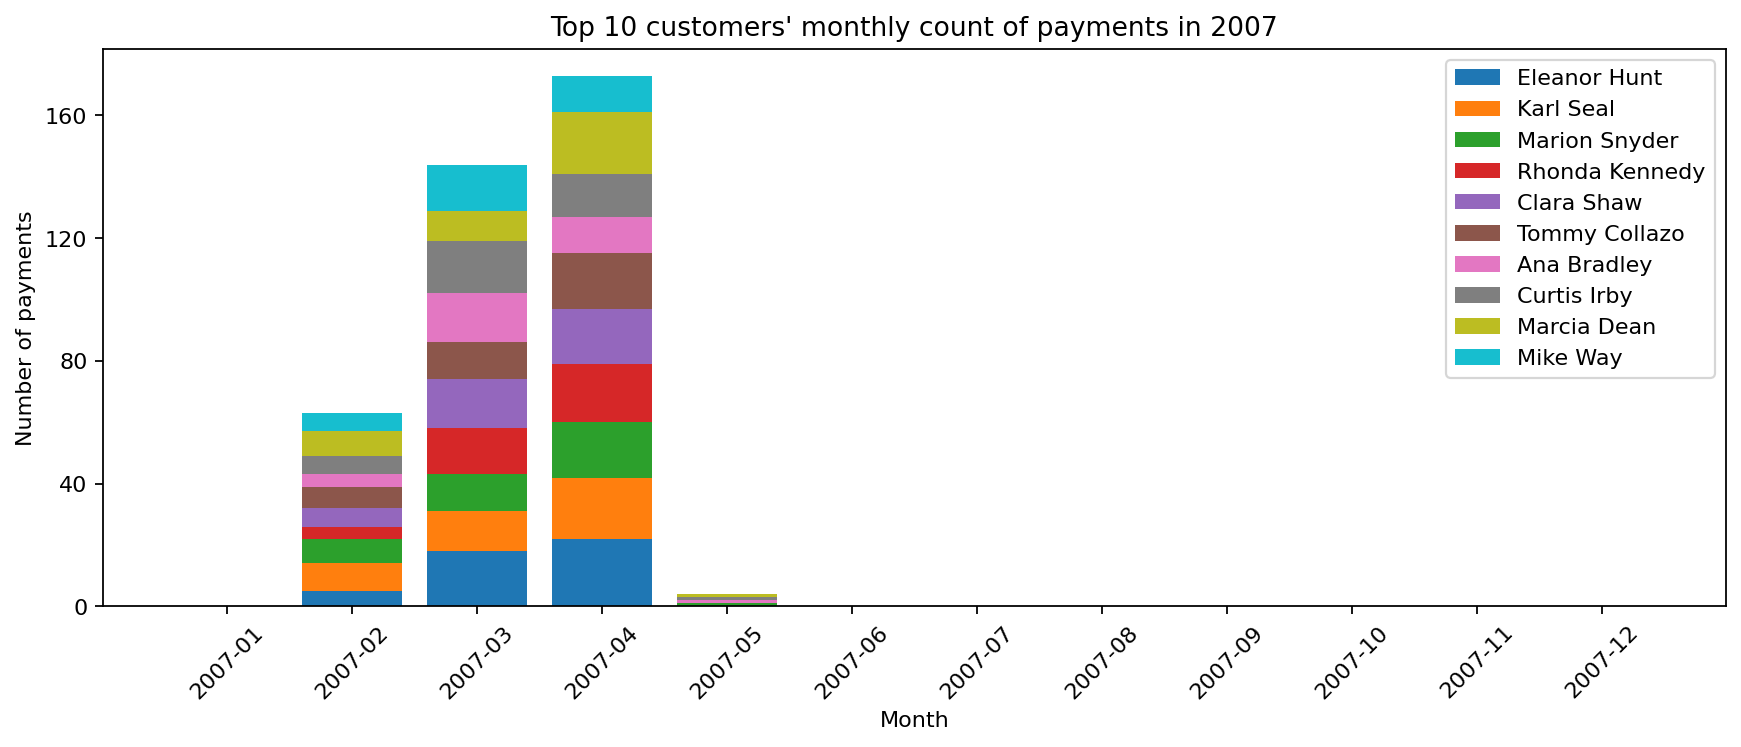
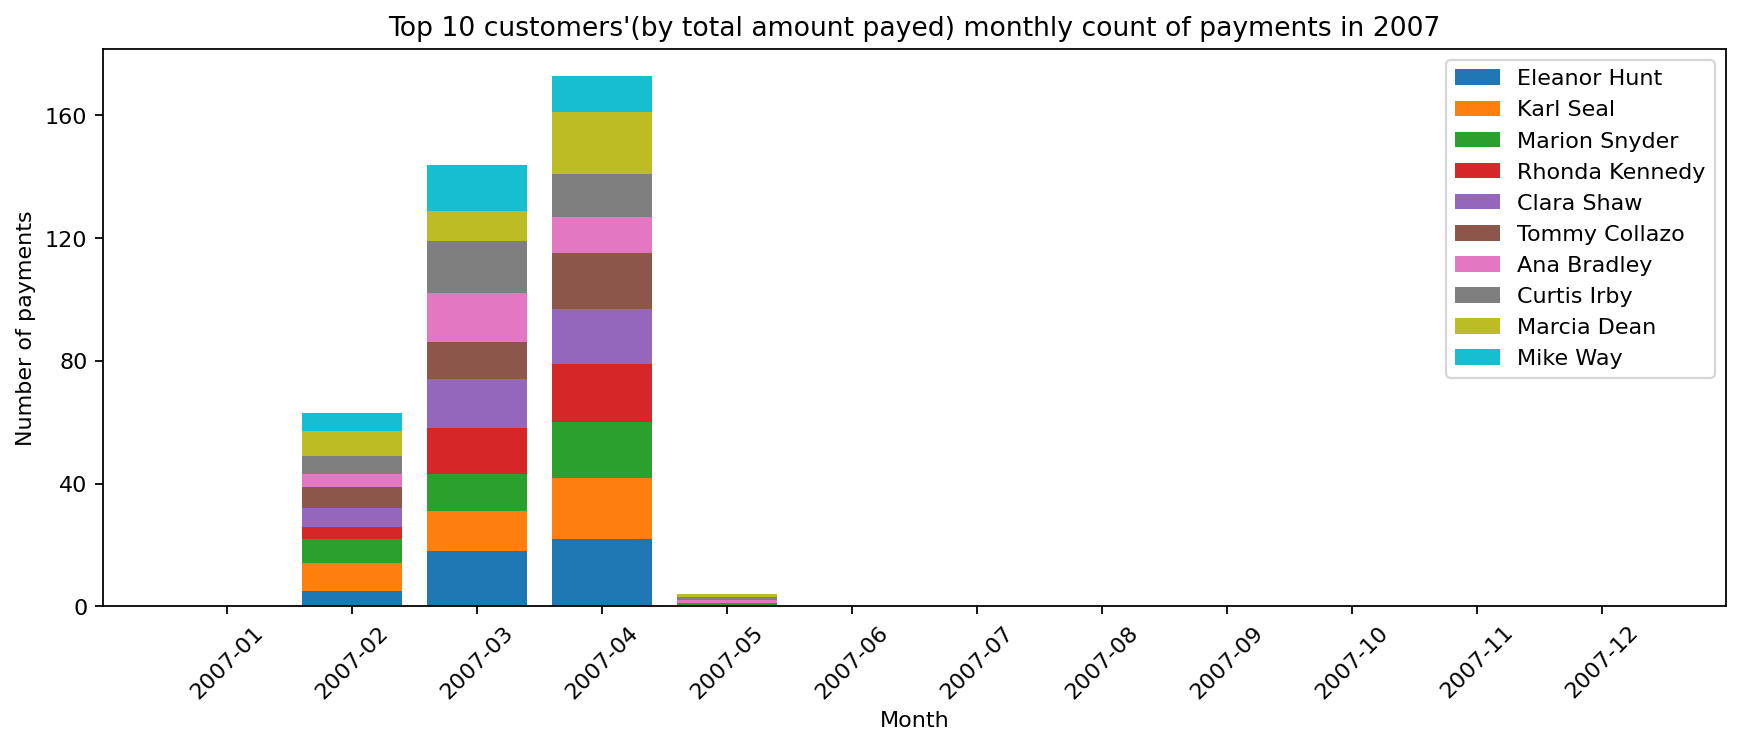
changed titles and labels to the last three figures

Changed region(s): [[0.2171, 0.0, 0.8374, 0.0616]]

diff --git a/dvdrental_vis.py b/dvdrental_vis.py
@@ -551,8 +551,8 @@ def top10customers_payment_total_per_month():
     amt = amt.reindex(columns = order)
     cnt = cnt.reindex(columns = order)
     
-    plot_stacked_monthly(amt, title="Top 10 customers' monthly payment amount in 2007", ylabel='Payment amount', outpath=OUT/'Q9.png')
-    plot_stacked_monthly(cnt, title="Top 10 customers' monthly count of payments in 2007",ylabel='Number of payments', outpath=OUT/'Q10.png')
+    plot_stacked_monthly(amt, title="Top 10 customers'(by total amount payed) monthly payment amount in 2007", ylabel='Payment amount', outpath=OUT/'Q9.png')
+    plot_stacked_monthly(cnt, title="Top 10 customers'(by total amount payed) monthly count of payments in 2007",ylabel='Number of payments', outpath=OUT/'Q10.png')
 
 
 def difference_across_monthly_payments():
@@ -632,7 +632,7 @@ def difference_across_monthly_payments():
 
     ax.set_title("Monthly change in payment amount vs previous month for Top 10 customers by amount payed")
     ax.set_xlabel("Month")
-    ax.set_ylabel("payment amount difference between this and previous months")
+    ax.set_ylabel("Month payment amount difference")
     ax.legend(loc='center left', bbox_to_anchor=(1.01, 0.5), fontsize=8)
     ax.grid(axis='y', linestyle=':')
 
